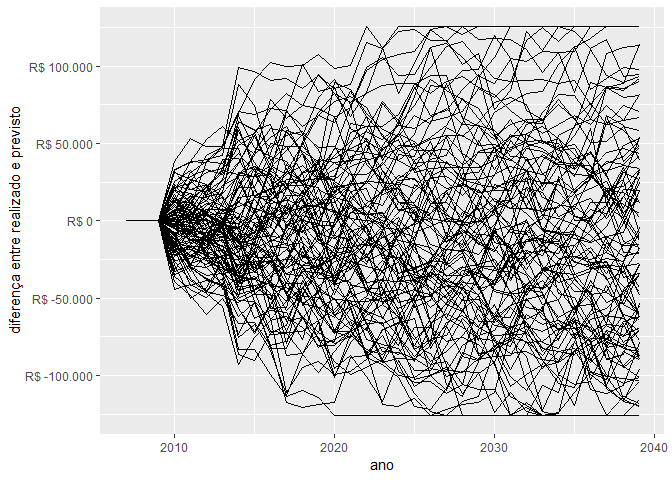
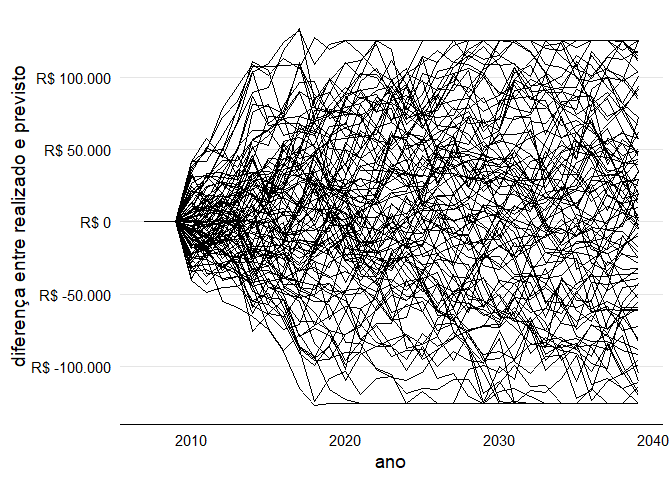
Ajuste na documentacao

diff --git a/README.md b/README.md
@@ -42,7 +42,10 @@ resultado <- sim_sensibilidade_line4(n_sim = 100, num_years = 33, start_seed = 1
 
 result_sim <- resultado[[1]]
 
-result_sim %>% ggplot(aes(x=ano, y=diferenca, group = sim)) + geom_line() + ylab("diferença entre realizado e previsto") + scale_y_continuous(labels = scales::comma_format(prefix = "R$ ",big.mark = ".", decimal.mark = ","))
+result_sim %>% ggplot(aes(x=ano, y=diferenca, group = sim)) + 
+  geom_line() + ylab("diferença entre realizado e previsto") +
+  scale_y_continuous(labels = scales::comma_format(prefix = "R$ ",big.mark = ".", decimal.mark = ",")) +
+  theme_bid()
 ```
 
 <img src="man/figures/README-example-1.png" width="100%" />
